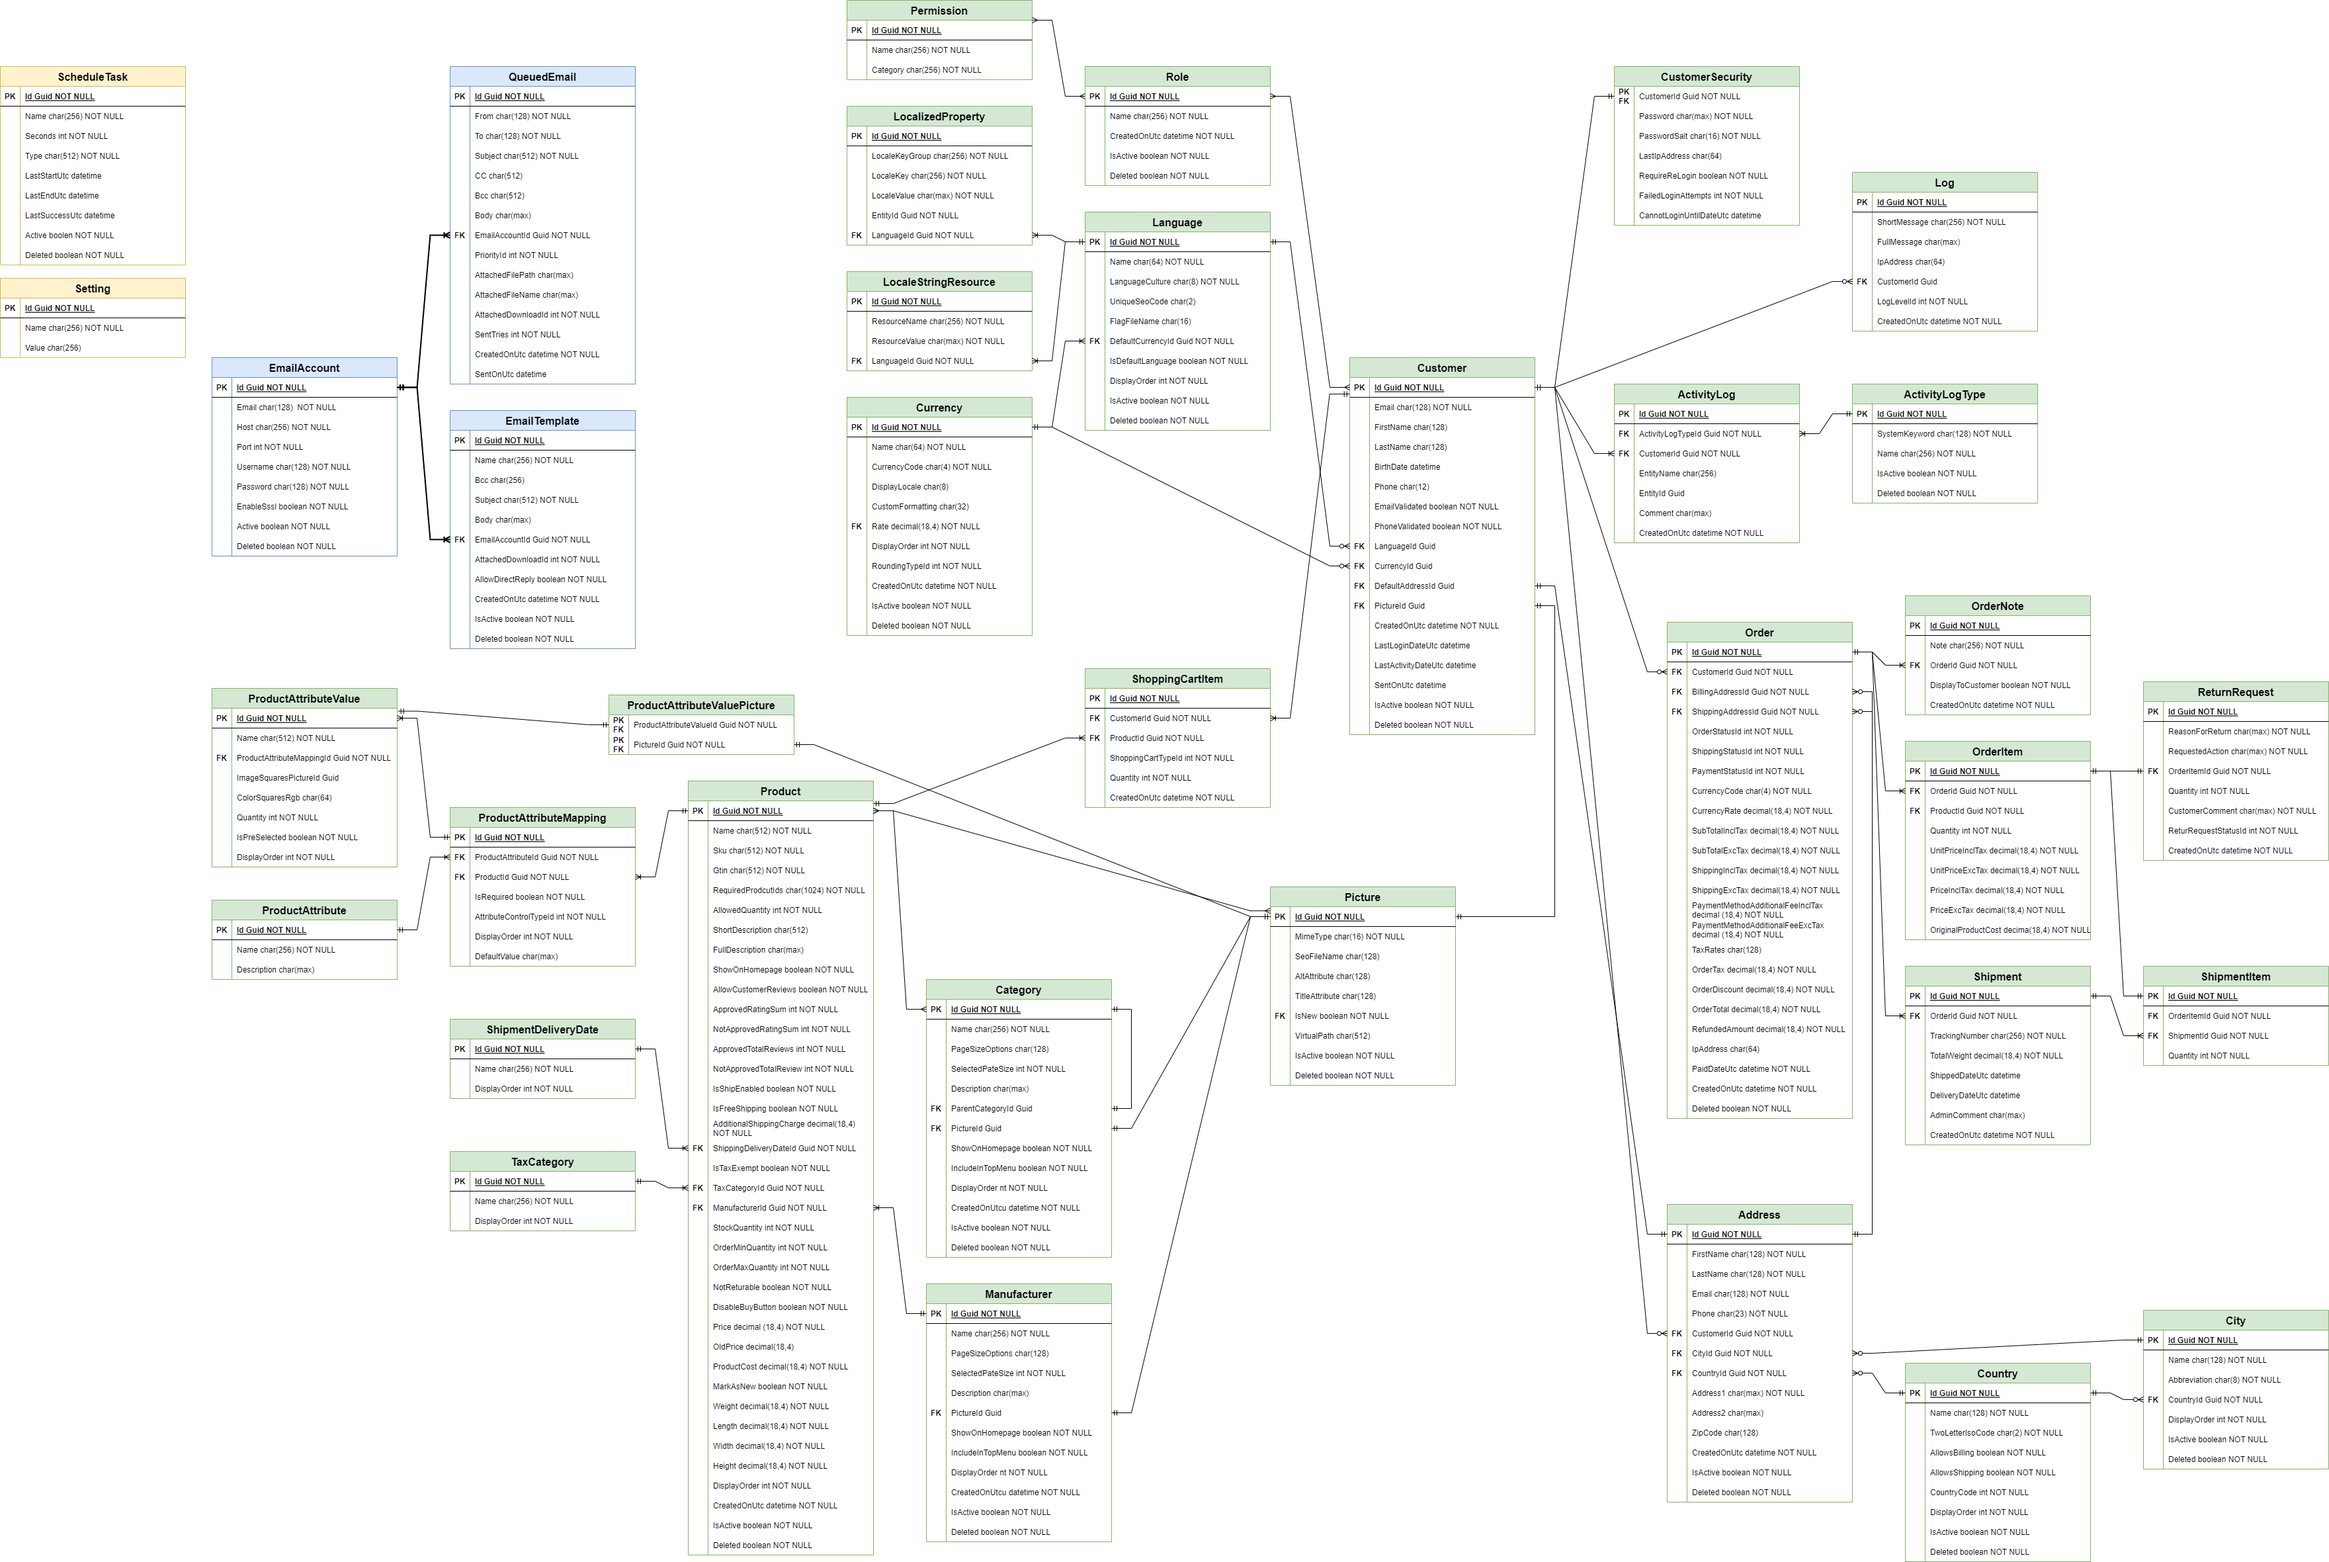
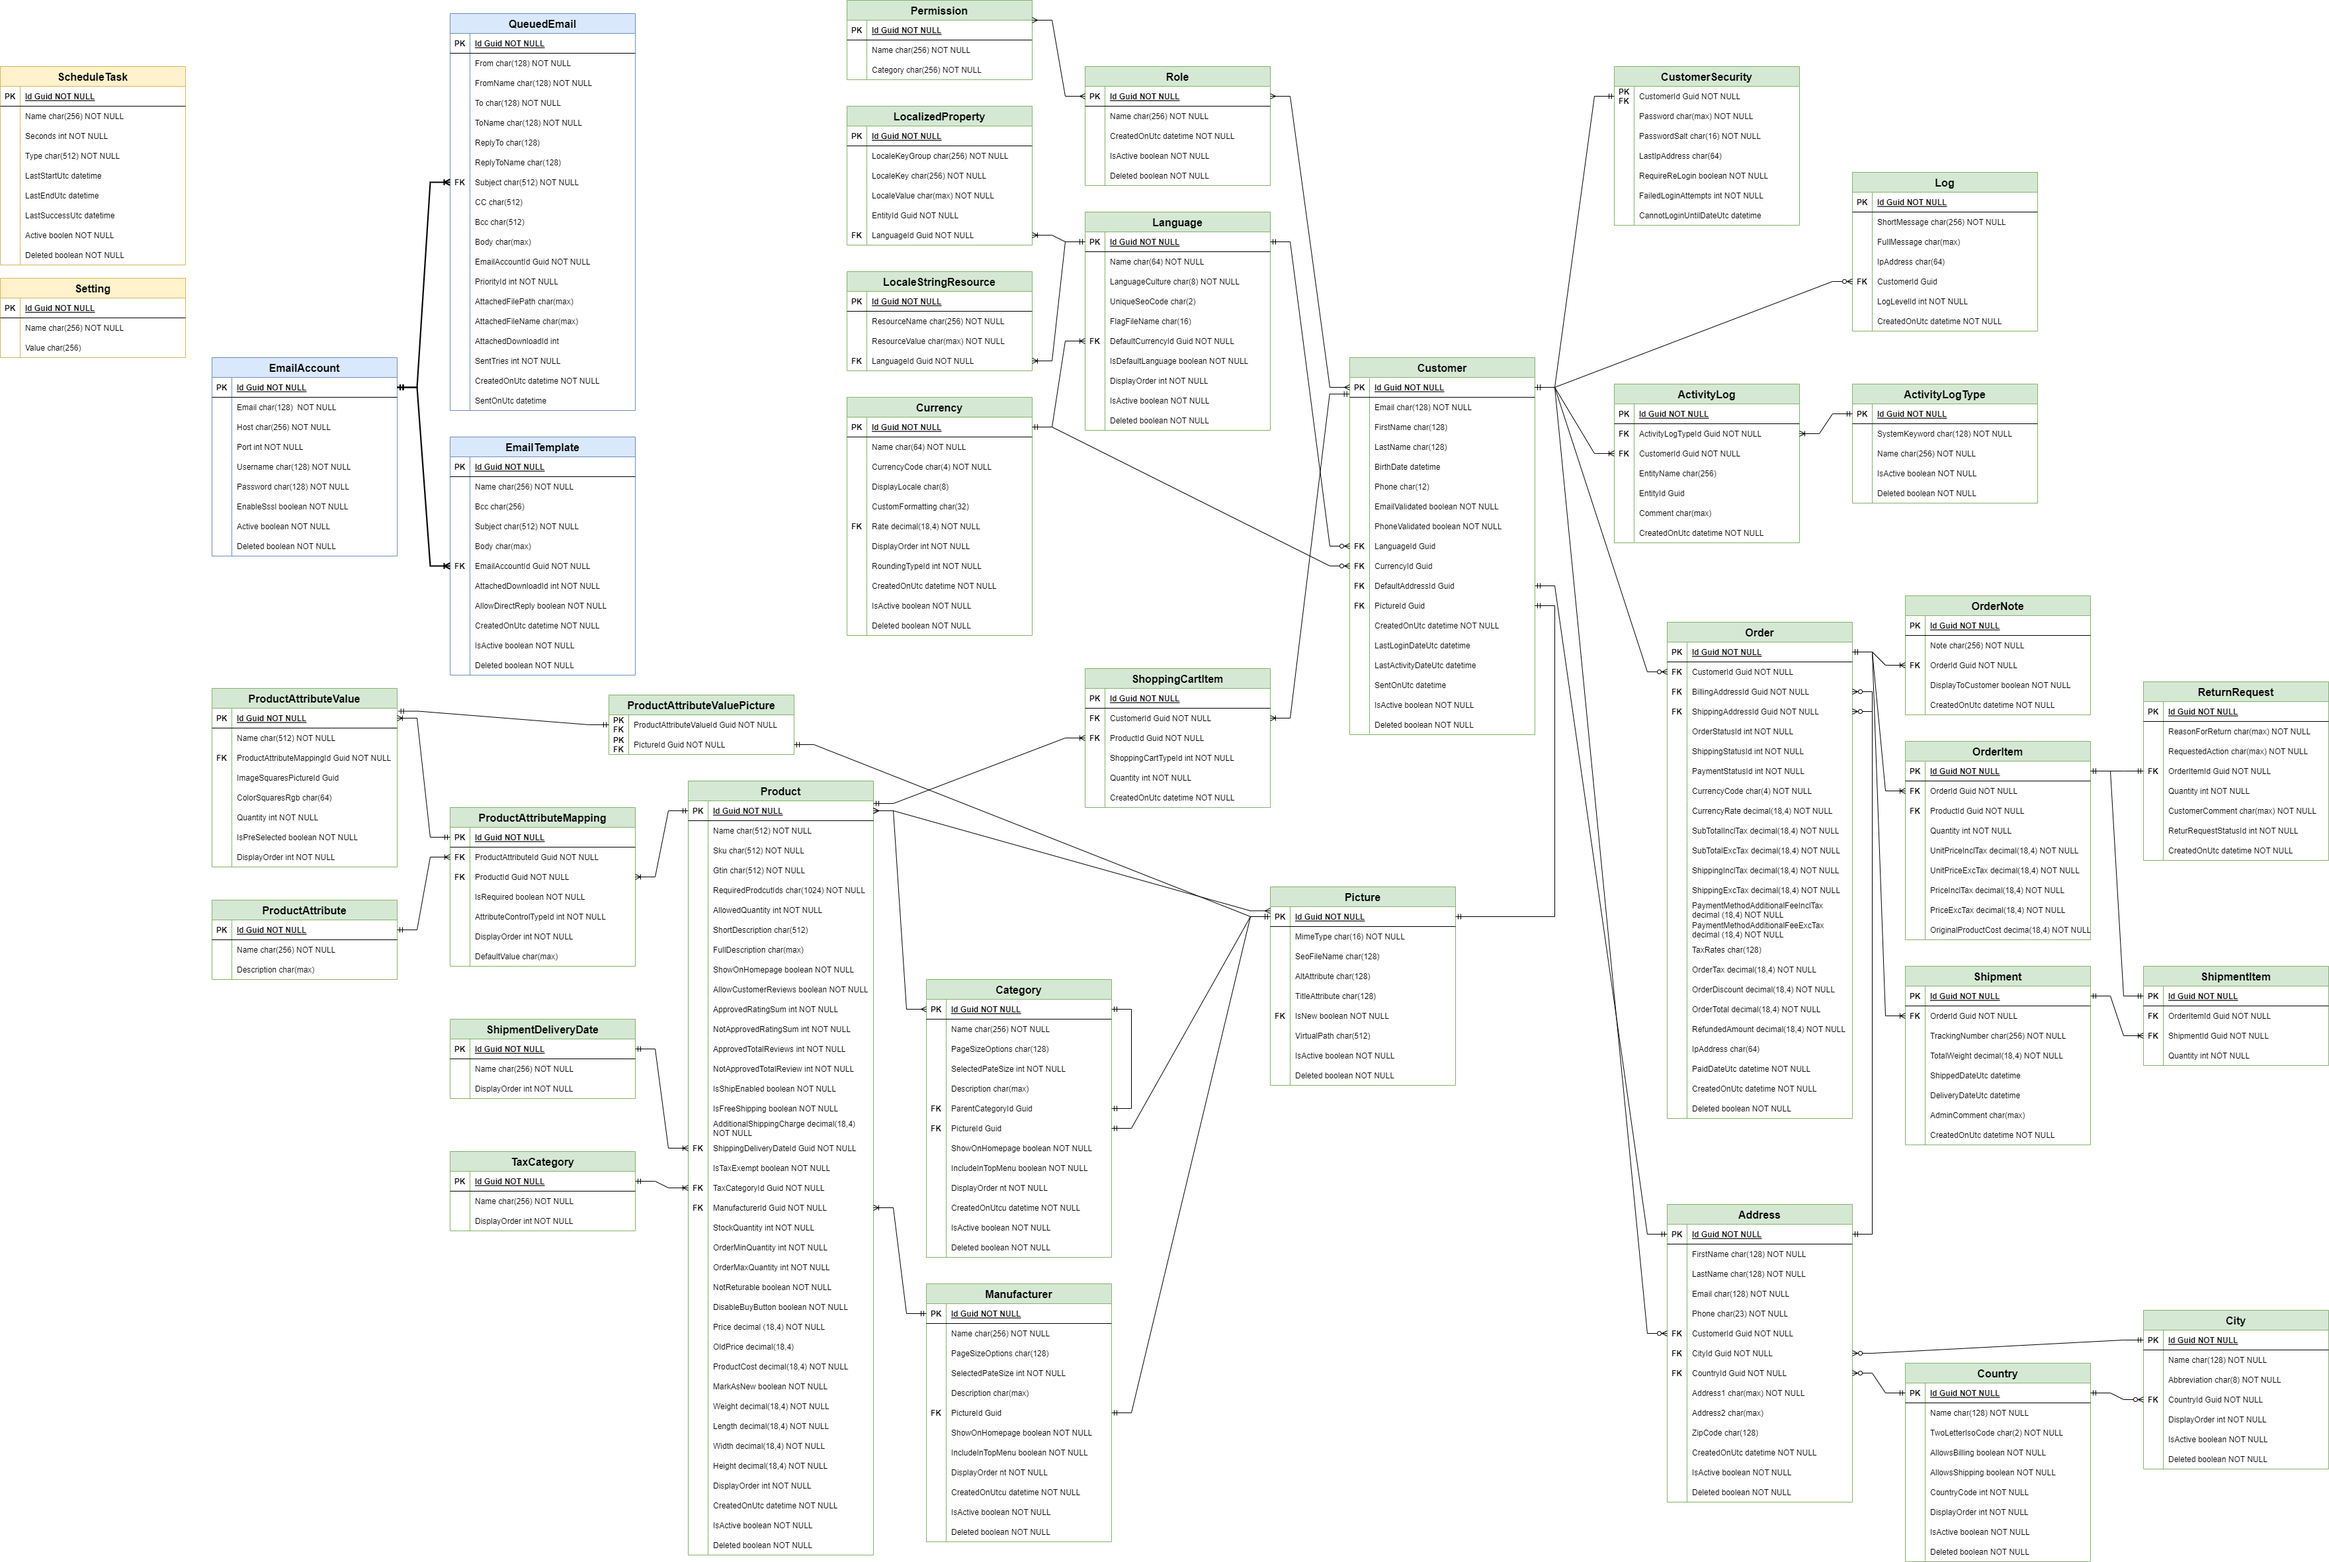
completed QueuedEmail classes

Changed region(s): [[0.1874, 0.0, 0.2812, 0.4329]]

diff --git a/src/eCommerce.Infrastructure/Persistence/Services/Public/QueuedEmailService.cs b/src/eCommerce.Infrastructure/Persistence/Services/Public/QueuedEmailService.cs
@@ -1,9 +1,9 @@
-using eCommerce.Core.Interfaces;
-using YerdenYuksek.Application.Services.Public.Messages;
-using YerdenYuksek.Core.Domain.Messages;
+using eCommerce.Application.Services.Messages;
+using eCommerce.Core.Domain.Messages;
+using eCommerce.Core.Interfaces;
 using YerdenYuksek.Web.Framework.Persistence.Extensions;
 
-namespace YerdenYuksek.Web.Framework.Persistence.Services.Public;
+namespace eCommerce.Infrastructure.Persistence.Services.Messages;
 
 public class QueuedEmailService : IQueuedEmailService
 {
@@ -78,16 +78,31 @@ public class QueuedEmailService : IQueuedEmailService
         toEmail = (toEmail ?? string.Empty).Trim();
 
         var query = _unitOfWork.GetRepository<QueuedEmail>().Table;
+
         if (!string.IsNullOrEmpty(fromEmail))
+        {
             query = query.Where(qe => qe.From.Contains(fromEmail));
+        }
+
         if (!string.IsNullOrEmpty(toEmail))
+        {
             query = query.Where(qe => qe.To.Contains(toEmail));
+        }
+
         if (createdFromUtc.HasValue)
+        {
             query = query.Where(qe => qe.CreatedOnUtc >= createdFromUtc);
+        }
+
         if (createdToUtc.HasValue)
+        {
             query = query.Where(qe => qe.CreatedOnUtc <= createdToUtc);
+        }
+
         if (loadNotSentItemsOnly)
+        {
             query = query.Where(qe => !qe.SentOnUtc.HasValue);
+        }
 
         query = query.Where(qe => qe.SentTries < maxSendTries);
         query = loadNewest ?

diff --git a/src/eCommerce.Core/Domain/Messages/QueuedEmail.cs b/src/eCommerce.Core/Domain/Messages/QueuedEmail.cs
@@ -1,11 +1,9 @@
 using eCommerce.Core.Primitives;
 
-namespace YerdenYuksek.Core.Domain.Messages;
+namespace eCommerce.Core.Domain.Messages;
 
 public class QueuedEmail : BaseEntity
 {
-    public int PriorityId { get; set; }
-
     public string From { get; set; }
 
     public string FromName { get; set; }
@@ -18,13 +16,17 @@ public class QueuedEmail : BaseEntity
 
     public string? ReplyToName { get; set; }
 
+    public string Subject { get; set; }
+
     public string? CC { get; set; }
 
     public string? Bcc { get; set; }
 
-    public string Subject { get; set; }
-
     public string Body { get; set; }
+
+    public Guid EmailAccountId { get; set; }
+
+    public int PriorityId { get; set; }
 
     public string? AttachmentFilePath { get; set; }
 
@@ -34,11 +36,9 @@ public class QueuedEmail : BaseEntity
 
     public int SentTries { get; set; }
 
-    public DateTime CreatedOnUtc { get; set; }    
+    public DateTime CreatedOnUtc { get; set; }
 
     public DateTime? SentOnUtc { get; set; }
-
-    public Guid EmailAccountId { get; set; }
 
     public QueuedEmailPriority Priority
     {

diff --git a/src/eCommerce.Infrastructure/Persistence/Builders/Messages/QueuedEmailBuilder.cs b/src/eCommerce.Infrastructure/Persistence/Builders/Messages/QueuedEmailBuilder.cs
@@ -1,8 +1,8 @@
-using Microsoft.EntityFrameworkCore;
+using eCommerce.Core.Domain.Messages;
+using Microsoft.EntityFrameworkCore;
 using Microsoft.EntityFrameworkCore.Metadata.Builders;
-using YerdenYuksek.Core.Domain.Messages;
 
-namespace YerdenYuksek.Web.Framework.Persistence.Builders.Messages;
+namespace eCommerce.Infrastructure.Persistence.Builders.Messages;
 
 internal class QueuedEmailBuilder : IEntityTypeConfiguration<QueuedEmail>
 {
@@ -32,17 +32,14 @@ internal class QueuedEmailBuilder : IEntityTypeConfiguration<QueuedEmail>
         builder.Property(e => e.ReplyToName)
             .HasMaxLength(128);
 
+        builder.Property(e => e.Subject)
+            .HasMaxLength(1024);
+
         builder.Property(e => e.CC)
             .HasMaxLength(512);
 
         builder.Property(e => e.Bcc)
             .HasMaxLength(512);
-
-        builder.Property(e => e.Subject)
-            .HasMaxLength(1024);
-
-        builder.Property(e => e.AttachmentFileName)
-            .HasMaxLength(256);
 
         builder.Property(e => e.CreatedOnUtc)
             .HasPrecision(6);

diff --git a/src/eCommerce.Application/Services/Public/Messages/IQueuedEmailService.cs b/src/eCommerce.Application/Services/Public/Messages/IQueuedEmailService.cs
@@ -1,7 +1,7 @@
-using eCommerce.Core.Interfaces;
-using YerdenYuksek.Core.Domain.Messages;
+using eCommerce.Core.Domain.Messages;
+using eCommerce.Core.Interfaces;
 
-namespace YerdenYuksek.Application.Services.Public.Messages;
+namespace eCommerce.Application.Services.Messages;
 
 public interface IQueuedEmailService
 {

diff --git a/src/eCommerce.Infrastructure/Persistence/Services/ScheduleTasks/QueuedMessagesSendTask.cs b/src/eCommerce.Infrastructure/Persistence/Services/ScheduleTasks/QueuedMessagesSendTask.cs
@@ -1,4 +1,5 @@
-using eCommerce.Application.Services.ScheduleTasks;
+using eCommerce.Application.Services.Messages;
+using eCommerce.Application.Services.ScheduleTasks;
 using eCommerce.Core.Interfaces;
 using YerdenYuksek.Application.Services.Public.Messages;
 using YerdenYuksek.Core.Domain.Messages;

diff --git a/src/eCommerce.Infrastructure/Persistence/Builders/Localization/LanguageBuilder.cs b/src/eCommerce.Infrastructure/Persistence/Builders/Localization/LanguageBuilder.cs
@@ -2,7 +2,6 @@
 using Microsoft.EntityFrameworkCore;
 using YerdenYuksek.Core.Domain.Localization;
 using System.Globalization;
-using eCommerce.Core.Domain.Configuration.CustomSettings;
 using eCommerce.Application.Services.Common;
 
 namespace YerdenYuksek.Web.Framework.Persistence.Builders.Localization;

diff --git a/src/eCommerce.Core/Domain/Messages/QueuedEmailPriority.cs b/src/eCommerce.Core/Domain/Messages/QueuedEmailPriority.cs
@@ -1,4 +1,4 @@
-namespace YerdenYuksek.Core.Domain.Messages;
+namespace eCommerce.Core.Domain.Messages;
 
 public enum QueuedEmailPriority
 {
